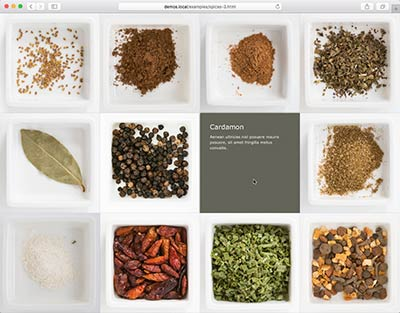
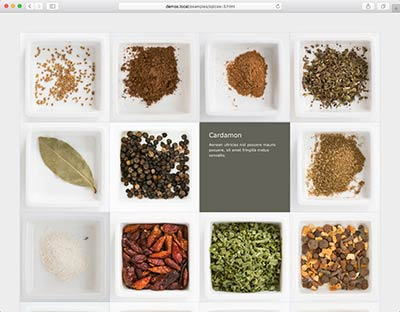
adjustment to spices design that flips

diff --git a/examples/css/spices-3.css b/examples/css/spices-3.css
@@ -11,13 +11,15 @@ html {
           text-size-adjust: 100%; }
 
 body {
-  background: #F0F0F0;
+  background: #ededed;
   color: #cf8317; }
 
 main {
   /* autoprefixer: off */
   display: grid;
-  grid-template-columns: repeat(auto-fit, minmax(250px, 1fr)); }
+  grid-template-columns: repeat(auto-fit, minmax(250px, 1fr));
+  width: 90%;
+  margin: 5vw auto; }
 
 section {
   margin: 0;

diff --git a/examples/sass/spices-3.scss b/examples/sass/spices-3.scss
@@ -1,4 +1,4 @@
-* {
+  * {
   box-sizing: border-box;
 }
 html {
@@ -8,13 +8,15 @@ html {
   text-size-adjust: 100%;
 }
 body {
-  background: #F0F0F0;
+  background: #ededed;
   color: #cf8317;
 }
 main {
  /* autoprefixer: off */
   display: grid;
   grid-template-columns: repeat(auto-fit, minmax(250px, 1fr));
+  width: 90%;
+  margin: 0 auto;
 }
 section {
   margin: 0;
